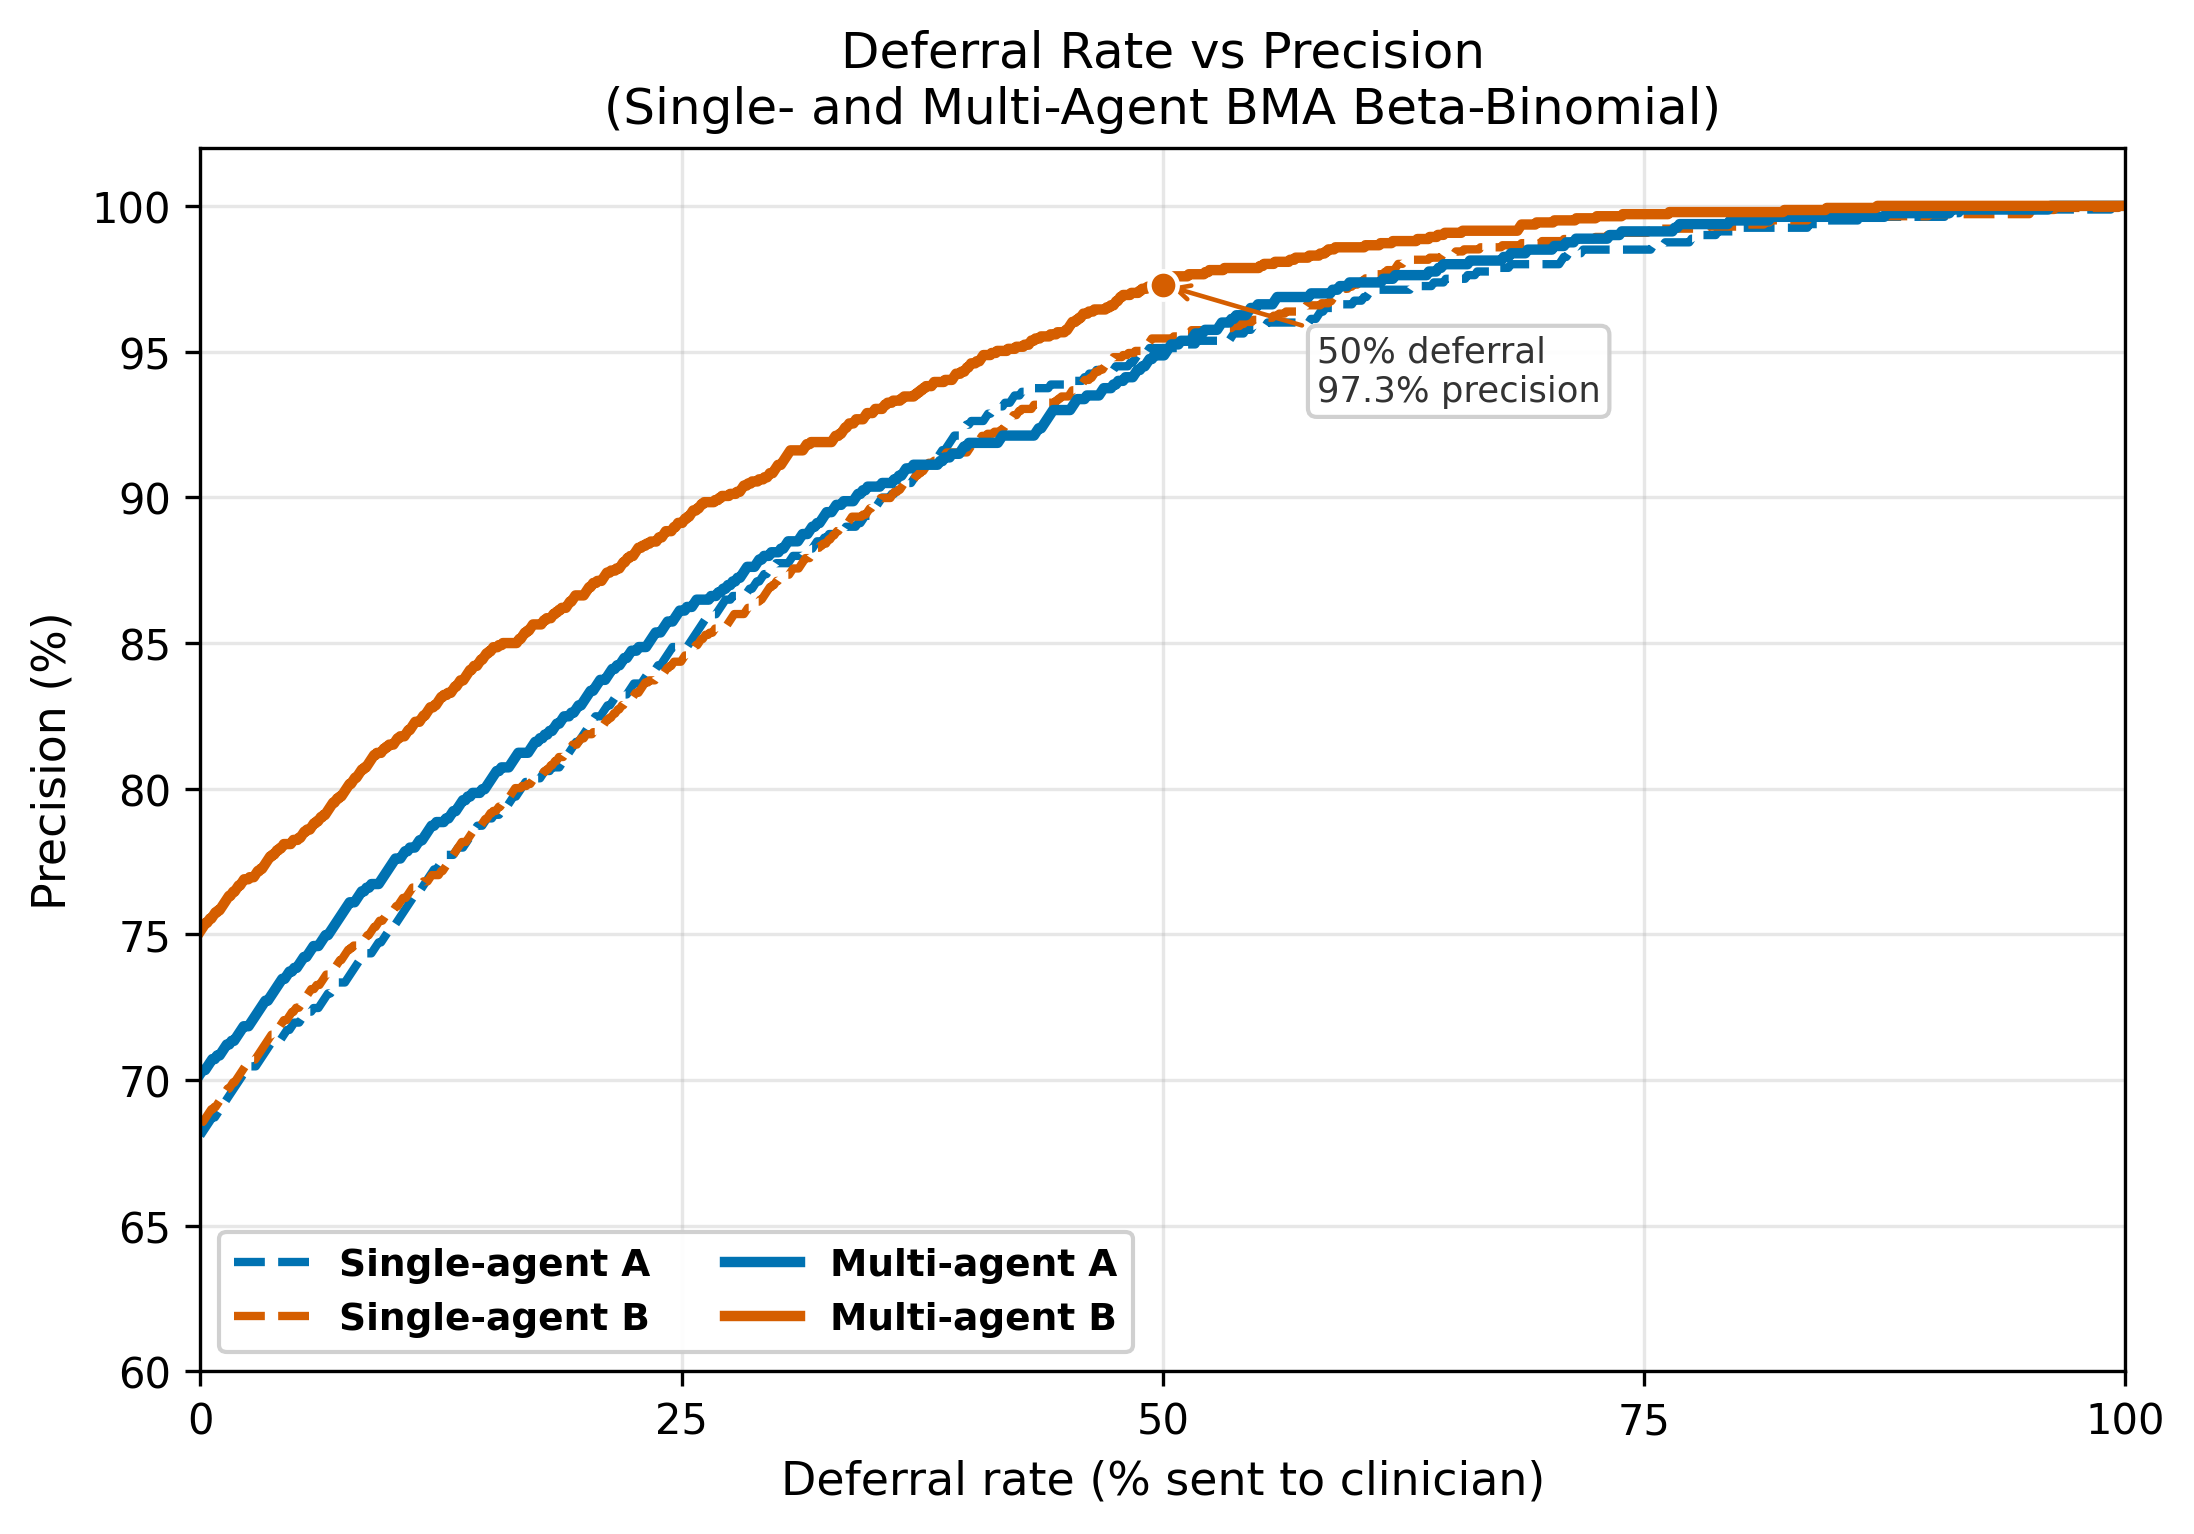
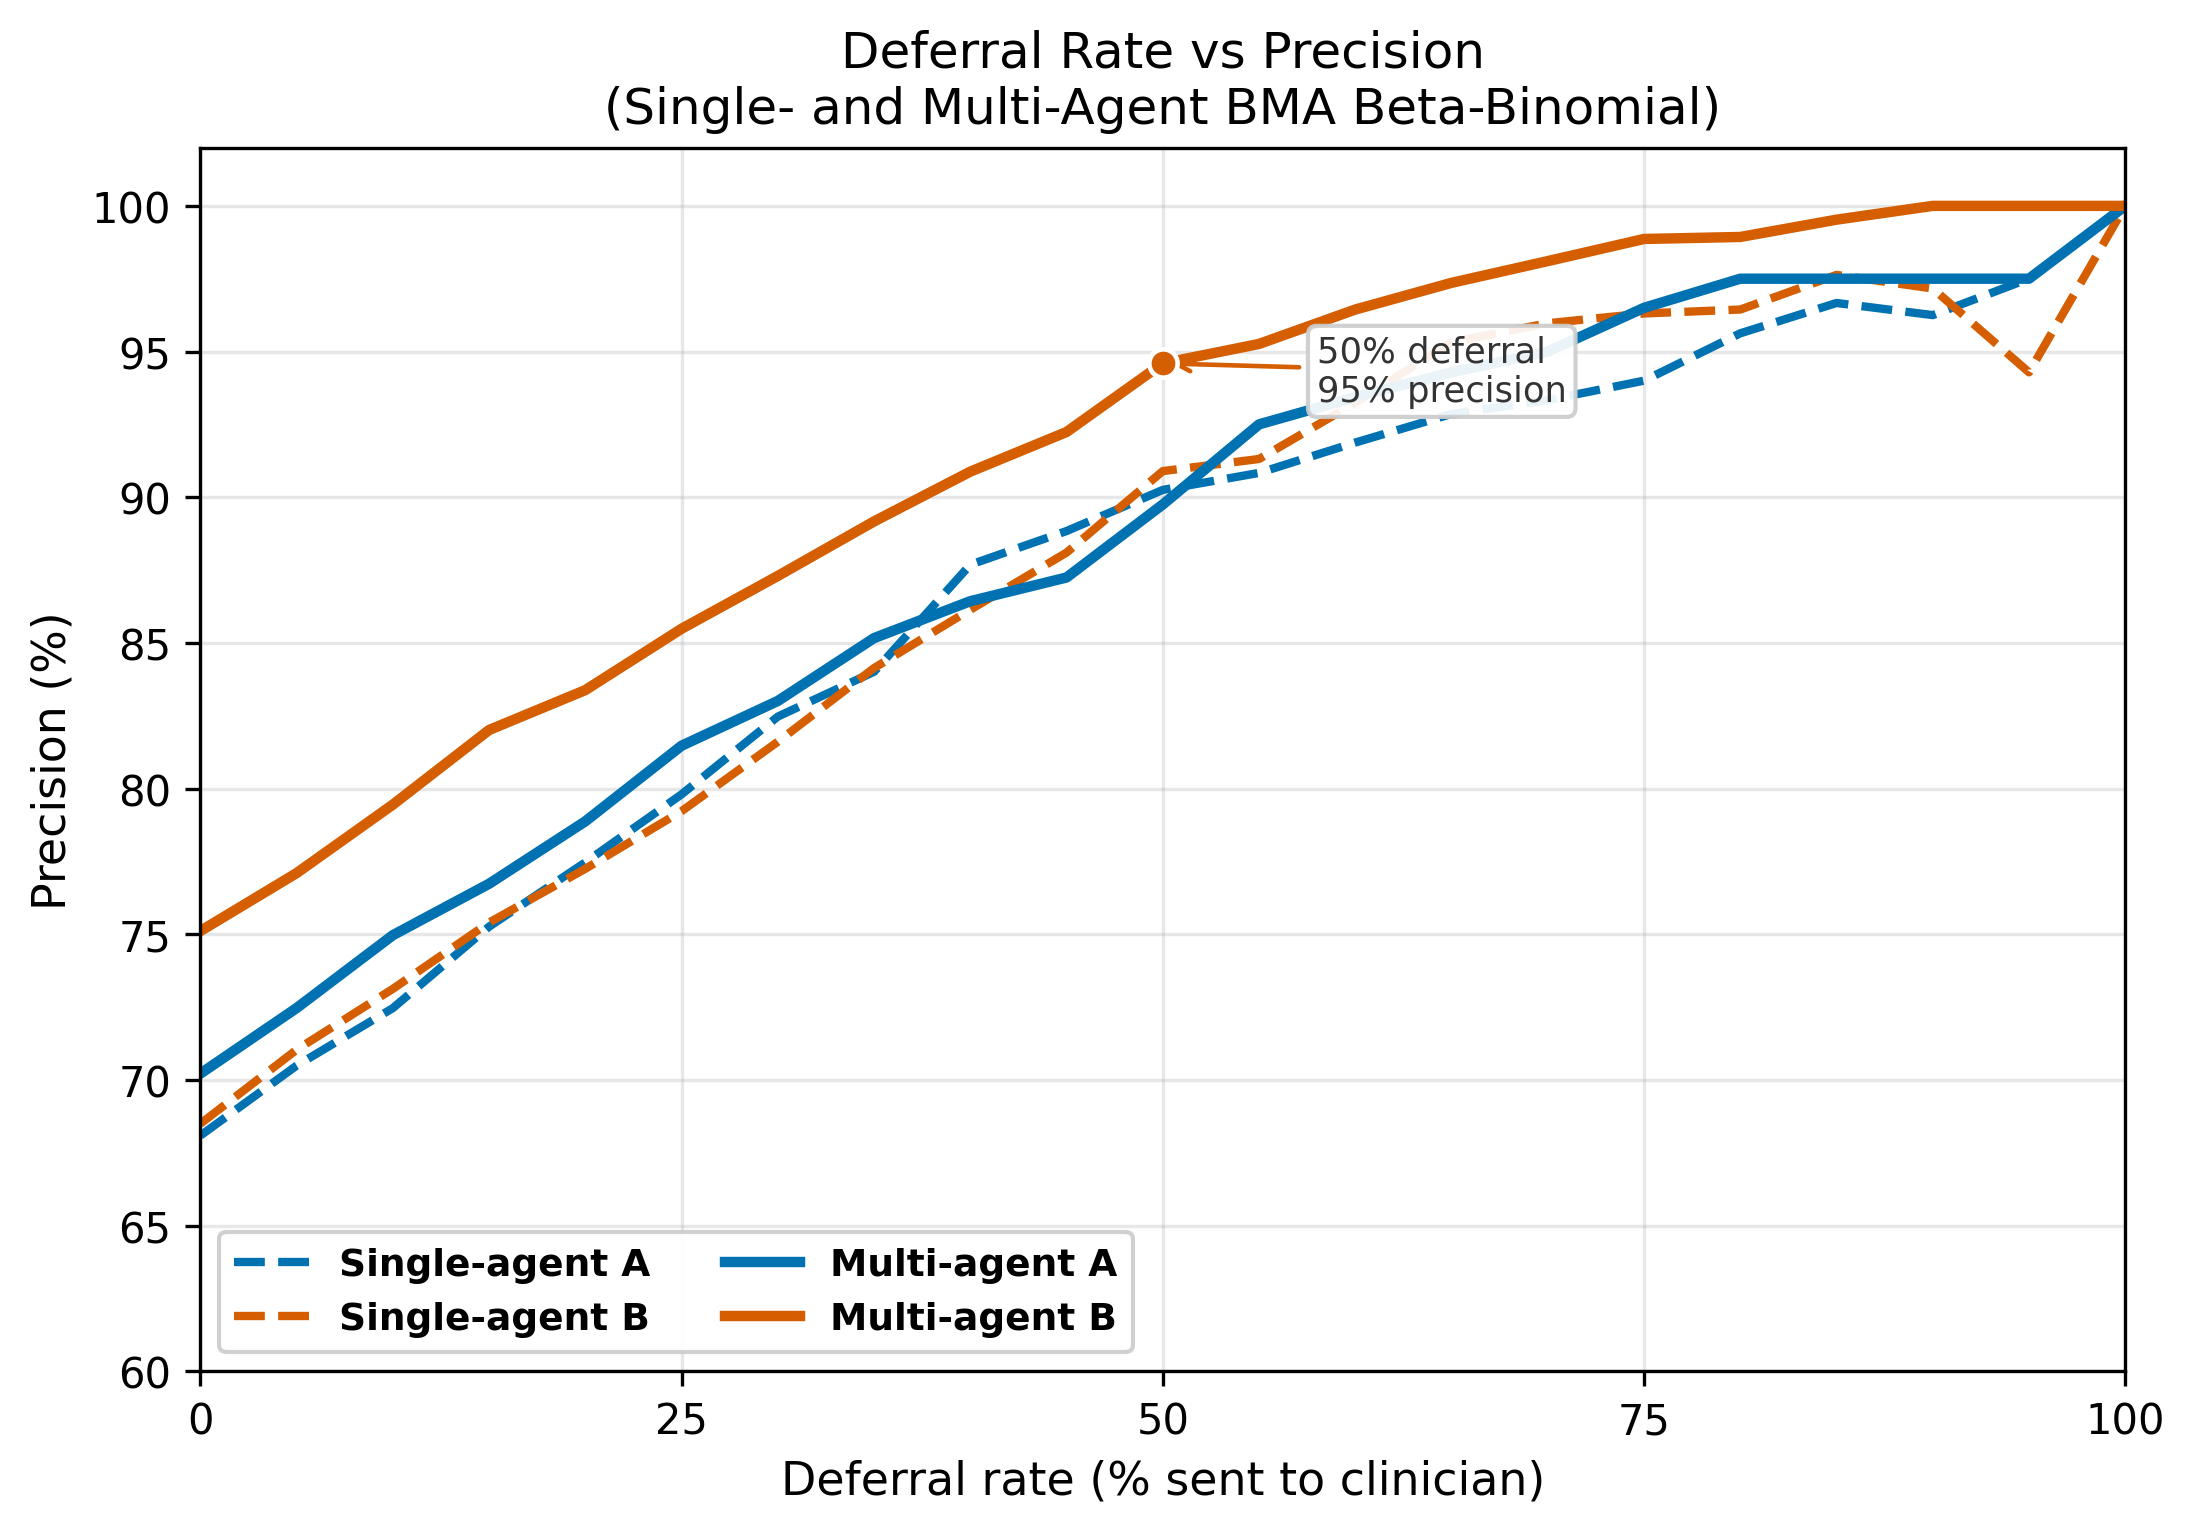
Correct deferral precision plot

diff --git a/scripts/plot_calibration.py b/scripts/plot_calibration.py
@@ -75,13 +75,19 @@ def deferral_precision(path, match_key, conf_key):
     correct_sorted = correct[order]
     cumulative_correct = np.cumsum(correct_sorted)
     n_total = len(correct)
-    n_auto = np.arange(1, n_total + 1)
-    n_deferred = n_total - n_auto
 
-    # Deferred cases are assumed to receive the correct physician recommendation.
-    precision = (cumulative_correct + n_deferred) / n_total
-    deferral = n_deferred / n_total
-    return np.r_[deferral[::-1] * 100, 100.0], np.r_[precision[::-1] * 100, 100.0]
+    # Display 5% operating points. Precision is measured on the non-deferred
+    # subset, matching Table 3; the 100% endpoint is all-clinician review.
+    deferral = np.arange(0, 101, 5)
+    precision = []
+    for rate in deferral:
+        if rate == 100:
+            precision.append(100.0)
+            continue
+        n_auto = max(1, int(round(n_total * (1 - rate / 100))))
+        precision.append(cumulative_correct[n_auto - 1] / n_auto * 100)
+
+    return deferral, np.array(precision)
 
 
 def reliability_bins(path, match_key, conf_key, min_bin_n=5):
@@ -265,7 +271,7 @@ ax.scatter(
     zorder=5,
 )
 ax.annotate(
-    f"50% deferral\n{headline_y:.1f}% precision",
+    f"50% deferral\n{headline_y:.0f}% precision",
     xy=(headline_x, headline_y),
     xytext=(58, 93.3),
     fontsize=8.5,
@@ -356,7 +362,7 @@ headline_y = np.interp(50.0, *summary_deferral_curves["Multi-agent B"])
 ax.scatter([50.0], [headline_y], s=38, color=styles["Multi-agent B"]["color"],
            edgecolor="white", linewidth=1.0, zorder=5)
 ax.annotate(
-    f"50% deferral\n{headline_y:.1f}% precision",
+    f"50% deferral\n{headline_y:.0f}% precision",
     xy=(50.0, headline_y),
     xytext=(58, 93.4),
     fontsize=8.5,